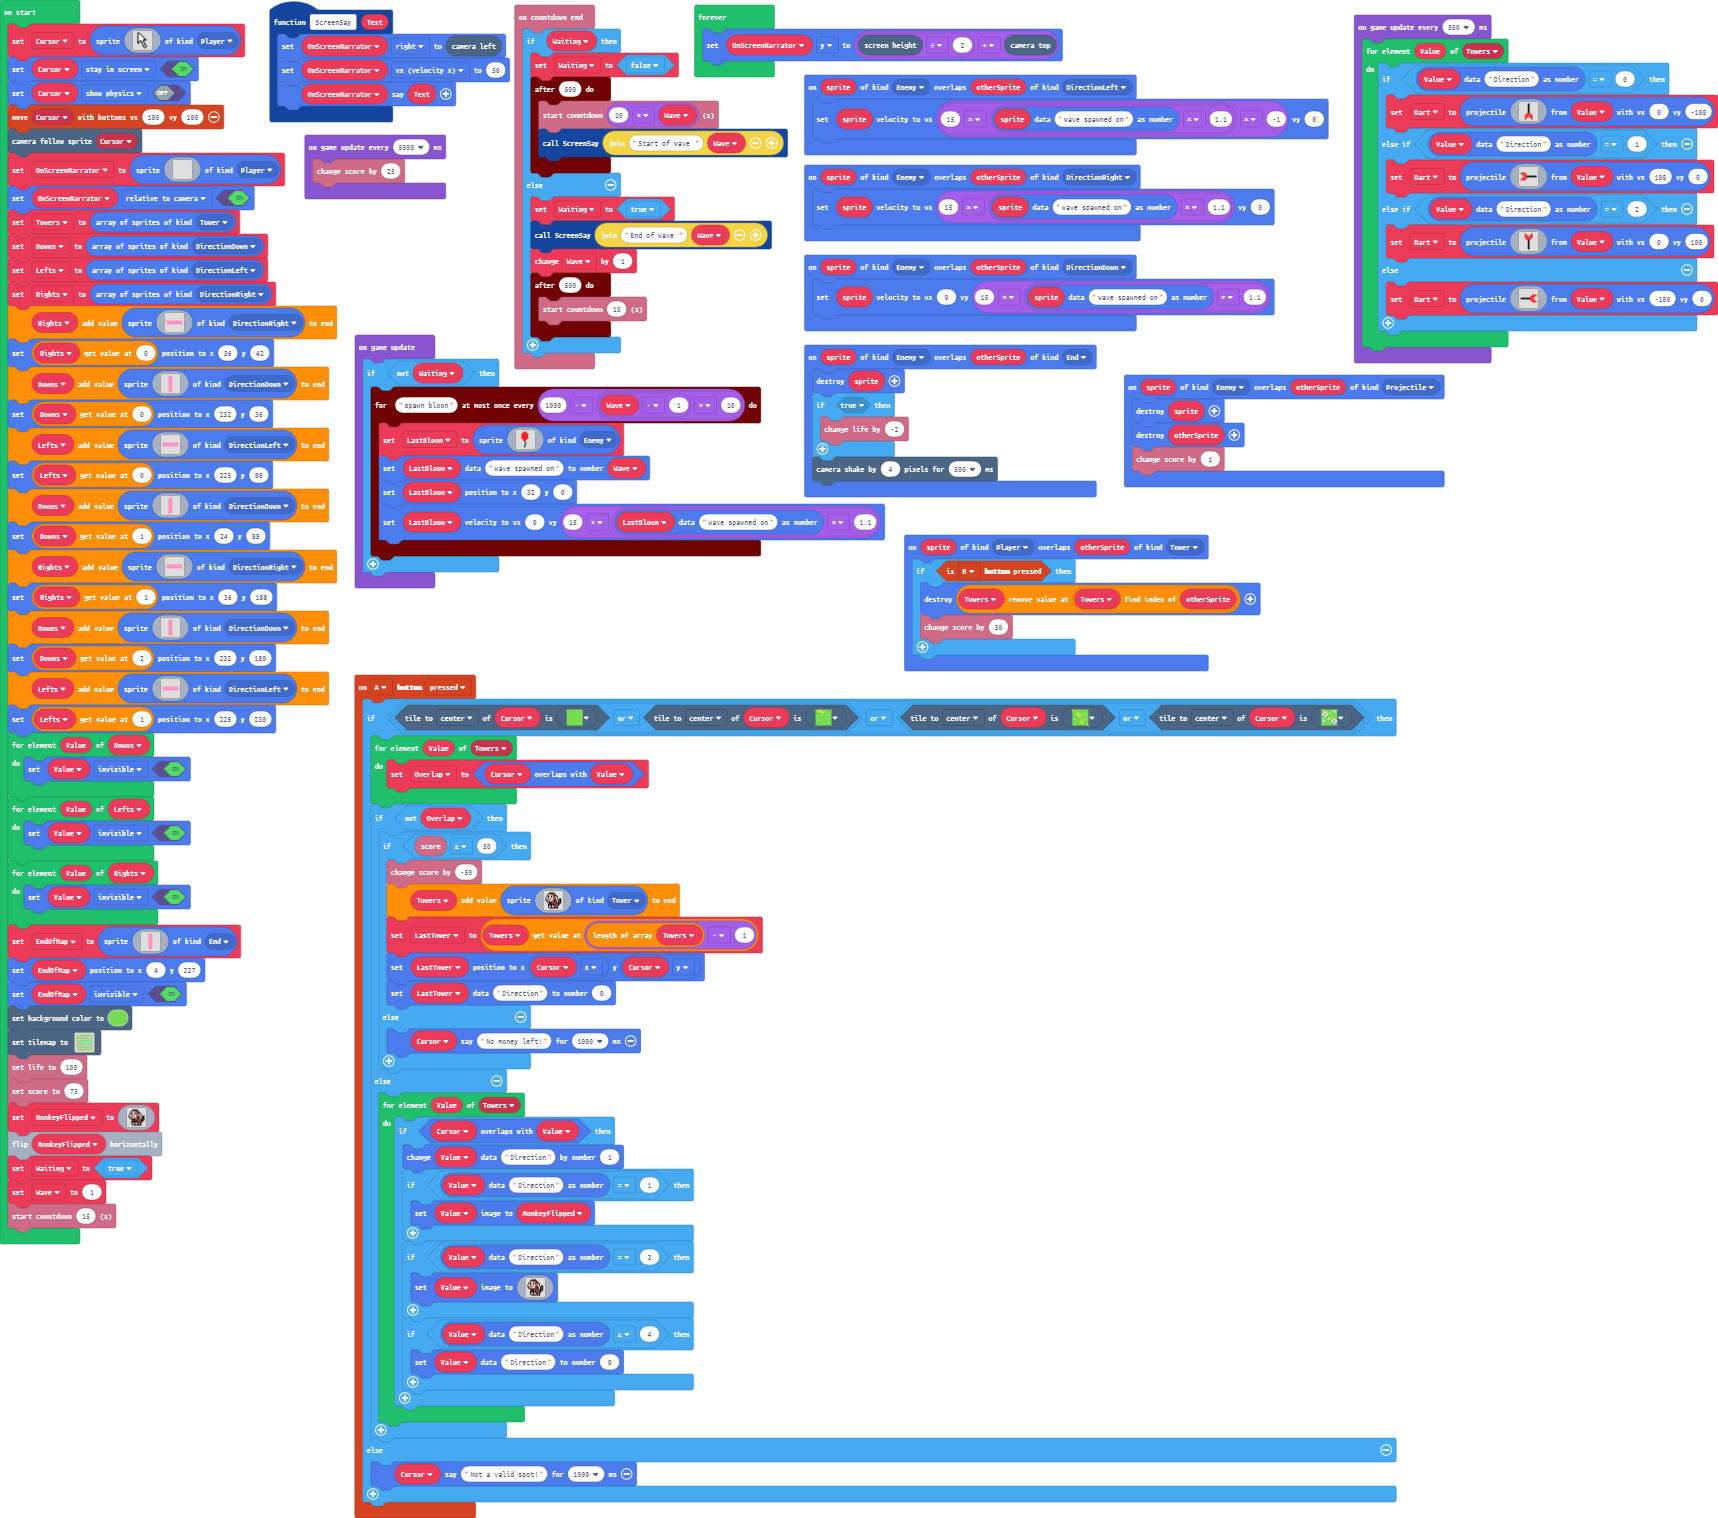
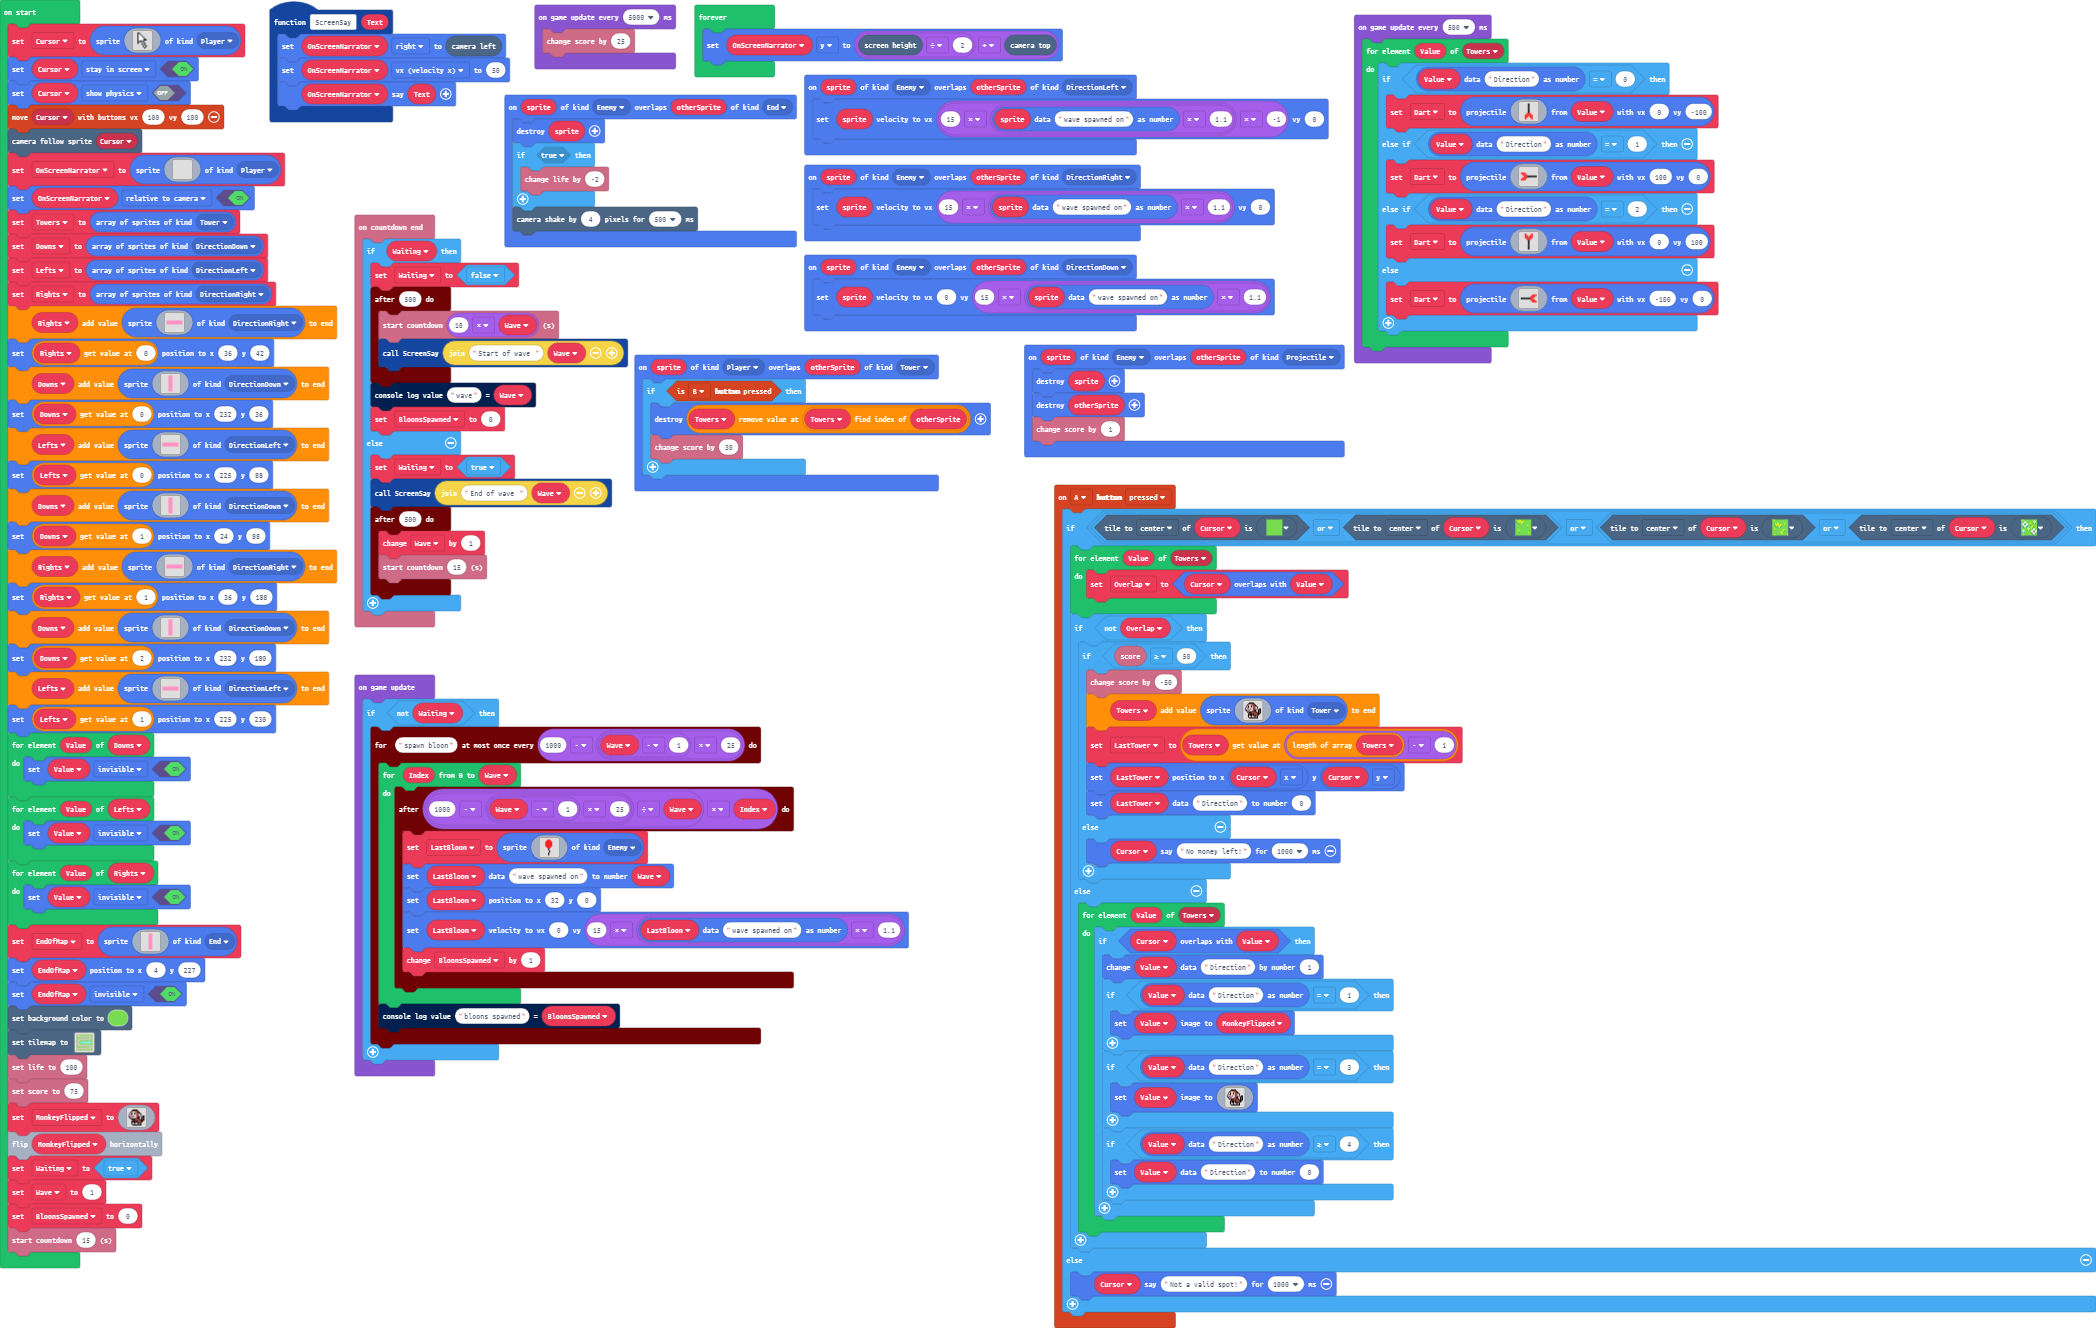
Improved Bloon spawning mechanics

diff --git a/main.ts b/main.ts
@@ -270,11 +270,13 @@ info.onCountdownEnd(function () {
             info.startCountdown(10 * Wave)
             ScreenSay("Start of wave " + Wave)
         })
+        console.logValue("wave", Wave)
+        BloonsSpawned = 0
     } else {
         Waiting = true
         ScreenSay("End of wave " + Wave)
-        Wave += 1
         timer.after(500, function () {
+            Wave += 1
             info.startCountdown(15)
         })
     }
@@ -299,6 +301,7 @@ let Dart: Sprite = null
 let LastBloon: Sprite = null
 let LastTower: Sprite = null
 let Overlap = false
+let BloonsSpawned = 0
 let Wave = 0
 let Waiting = false
 let MonkeyFlipped: Image = null
@@ -574,11 +577,14 @@ c c c c c d d d e e f c . f e f
 MonkeyFlipped.flipX()
 Waiting = true
 Wave = 1
+BloonsSpawned = 0
 info.startCountdown(15)
 game.onUpdate(function () {
     if (!(Waiting)) {
-        timer.throttle("spawn bloon", 1000 - (Wave - 1) * 10, function () {
-            LastBloon = sprites.create(img`
+        timer.throttle("spawn bloon", 1000 - (Wave - 1) * 25, function () {
+            for (let Index = 0; Index <= Wave; Index++) {
+                timer.after((1000 - (Wave - 1) * 25) / Wave * Index, function () {
+                    LastBloon = sprites.create(img`
 . . . . . . 2 2 2 . . . . . . . 
 . . . . . 2 2 2 2 2 . . . . . . 
 . . . . 2 2 2 2 2 2 2 . . . . . 
@@ -596,9 +602,13 @@ game.onUpdate(function () {
 . . . . . . . f . . . . . . . . 
 . . . . . . . f . . . . . . . . 
 `, SpriteKind.Enemy)
-            sprites.setDataNumber(LastBloon, "wave spawned on", Wave)
-            LastBloon.setPosition(32, 0)
-            LastBloon.setVelocity(0, 15 * (sprites.readDataNumber(LastBloon, "wave spawned on") * 1.1))
+                    sprites.setDataNumber(LastBloon, "wave spawned on", Wave)
+                    LastBloon.setPosition(32, 0)
+                    LastBloon.setVelocity(0, 15 * (sprites.readDataNumber(LastBloon, "wave spawned on") * 1.1))
+                    BloonsSpawned += 1
+                })
+            }
+            console.logValue("bloons spawned", BloonsSpawned)
         })
     }
 })
